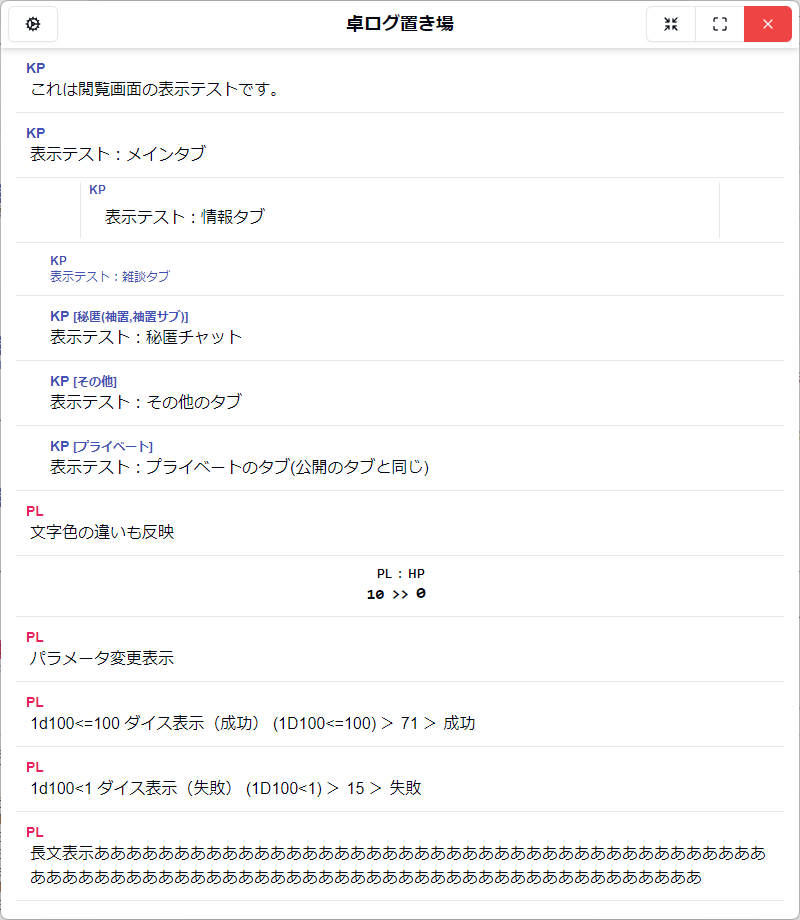
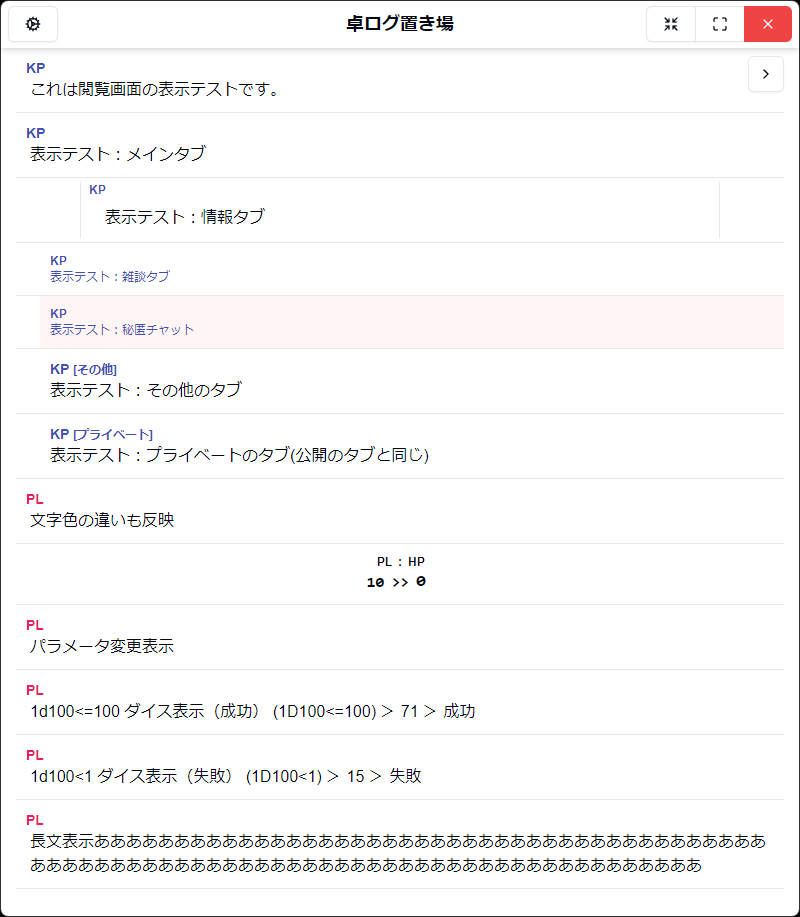
v1.3.0のreadmeの更新、インストール追加、バッジ追加、リンク追加、画像サイズ改修

diff --git a/src/app/page.tsx b/src/app/page.tsx
@@ -616,7 +616,7 @@ const SearchboxTag = ({
             ))}
         </ScrollArea>
         <Separator />
-        <div className="mt-2 mb-3 mx-auto text-xs text-gray-500">
+        <div className="mx-auto p-2 text-xs text-gray-500">
           完全一致で検索。
           <br />
           <span className="font-semibold">*</span>

diff --git a/README.md b/README.md
@@ -1,13 +1,35 @@
 # 卓ログ置き場
 
+![electron](https://img.shields.io/badge/-Electron-47848F.svg?logo=electron&style=popout&logoColor=white)
+![node.js](https://img.shields.io/badge/-Next.js-000000.svg?logo=next.js&style=popout)
+![shadcn/ui](https://img.shields.io/badge/-shadcn\/ui-000000.svg?logo=shadcnui&style=popout)
+
 ## 概要
 
-TRPG のセッションログなどの html ファイルを閲覧・管理するための windows デスクトップアプリ。  
+TRPG のセッションログなどの html ファイルを閲覧・管理するための windows デスクトップアプリ。
 
-複数フォルダのセッションログを一覧表示したり、  
+複数フォルダのセッションログを  
+一覧表示したり、  
 並び変えたり、  
 絞り込んだり、  
 名前・日付・タグを記録したりできます。
+
+## インストール
+
+releaseから最新版をダウンロードしてください。  
+ファイルはzip形式なので任意の場所で解凍し、中にある「卓ログ置き場.exe」を実行すれば使用できます。  
+
+### アンインストール
+
+インストール時に展開したファイルを削除してください。  
+`Users\(username)\AppData\Roaming\卓ログ置き場\`に設定ファイルなどがあるため、気になる方は削除してください。
+
+## リンク
+
+なにかあればこちらまで。  
+[![BlueSky](https://img.shields.io/badge/-bluesky-0285FF.svg?logo=bluesky&logoColor=white&style=popout)]([sodie-oxige.bsky.social](https://bsky.app/profile/sodie-oxige.bsky.social))
+
+***
 
 ## 機能
 
@@ -17,7 +39,7 @@ TRPG のセッションログなどの html ファイルを閲覧・管理する
 表のヘッダーをクリックすると名前か日付でソートが行えます。  
 再度クリックすると昇順と降順を切り替えられます。
 
-![基本画面](./doc/image01.png)
+<img alt="基本画面" src="./doc/image01.png" width="50%">
 
 #### 絞り込み機能
 
@@ -25,11 +47,11 @@ TRPG のセッションログなどの html ファイルを閲覧・管理する
 
 - 名前を空白区切り・部分一致で検索
 - 日付を範囲指定で検索
-- タグを複数指定・完全一致で検索
+- タグを空白区切り完全一致（\*:ワイルドカード）で検索
 
-![検索機能-名前](./doc/image-search-name.png)
-![検索機能-日付](./doc/image-search-date.png)
-![検索機能-タグ](./doc/image-search-tag.png)
+<img alt="検索機能-名前" src="./doc/image-search-name.png" width="50%">
+<img alt="検索機能-日付" src="./doc/image-search-date.png" width="50%">
+<img alt="検索機能-タグ" src="./doc/image-search-tag.png" width="50%">
 
 #### 編集機能
 
@@ -38,10 +60,10 @@ TRPG のセッションログなどの html ファイルを閲覧・管理する
 （並びは現在の表示順のままなので、ソートを行う場合はカラムヘッダーを再度クリックする必要あり。）
 
 > [!TIP]
-> データの編集はhtmlファイルそのものを操作するのではなく、htmlファイルが置かれているフォルダに「modifier.json」という設定ファイルを作成して読み込んでいます。  
+> データの編集は html ファイルそのものを操作するのではなく、html ファイルが置かれているフォルダに「modifier.json」という設定ファイルを作成して読み込んでいます。  
 > テキストディタ等での編集を行うと予期せぬエラーが発生する恐れがあります。どうしようもなくなった場合は削除してください。
 
-![編集機能](./doc/image-edit.png)
+<img alt="編集機能" src="./doc/image-edit.png" width="50%">
 
 ### ログ監視フォルダの設定
 
@@ -53,14 +75,26 @@ TRPG のセッションログなどの html ファイルを閲覧・管理する
 > [!TIP]
 > 監視を外しても設定ファイル(modifier.json)は削除されません。必要に応じて削除してください。
 
-![基本画面](./doc/image-monitoring.png)
+<img alt="基本画面" src="./doc/image-monitoring.png" width="50%">
 
 ### ログ閲覧画面
 
 ログ一覧画面の表からクリックでログ閲覧画面に遷移します。  
 ログの中身が（ちょっぴり整形されて）表示され、閲覧することができます。
 
-![基本画面](./doc/image-detail.png)
+画面右上の「>」ボタンからタブ設定画面を開くことができ、各タブの表示を自身で設定できます。  
+「カラー」のみ背景色も設定可能です。  
+（設定しなくてもある程度は見やすくなっているはず。）
+
+<img alt="基本画面" src="./doc/image-detail.png" width="50%">
+<img alt="タブ設定画面" src="./doc/image-detail-tabsetting.png" width="50%">
+<img alt="タブ設定画面(カラー)" src="./doc/image-detail-tabsetting-color.png" width="50%">
+
+### ローカル保存
+
+本アプリは基本的に Windows 向けのデスクトップアプリですが、スマートフォンなどでも閲覧できるようにローカルの HTML ファイルとして出力する機能を備えています。  
+ただし、あくまで補助的な機能です。デスクトップアプリの機能はほぼなく成形済みファイルが閲覧できるのみとなります。  
+ファイルは`Users\(username)\AppData\Roaming\卓ログ置き場\logfile`に「(ログ名).html」保存されます。同名のログは上書き保存されます。
 
 ***
 
@@ -71,12 +105,22 @@ TRPG のセッションログなどの html ファイルを閲覧・管理する
 
 ## 更新履歴
 
+- **v1.3.0** (2025-03-19)
+  - ログ一覧画面
+    - タグ検索のリメイク
+      - マルチプルのセレクトボックスではなく、テキスト入力に
+  - ログ閲覧画面
+    - タブ表示の設定機能追加
+      - タブごとの表示方法をユーザー側でも変更可能に
+      - 選択できるタブ表示に背景色を自由に指定できる「カラー」を追加
+  - ローカル保存
+    - ログ閲覧画面をローカルにも保存する機能追加(スマホなどで見ることを想定)
 - **v1.2.0** (2025-02-07)
   - ログ閲覧画面
     - メイン、情報、雑談、その他のタブ・パラメータ変更の際の表示を分別
   - 監視フォルダ
     - 監視フォルダの削除を実装
-  - ログ一覧のUI改善
+  - ログ一覧の UI 改善
     - 検索・編集の日付入力で年単位のカレンダー移動を可能に
     - ページネーションのボタン位置を固定
     - デフォルトの並び順を新しい順に
